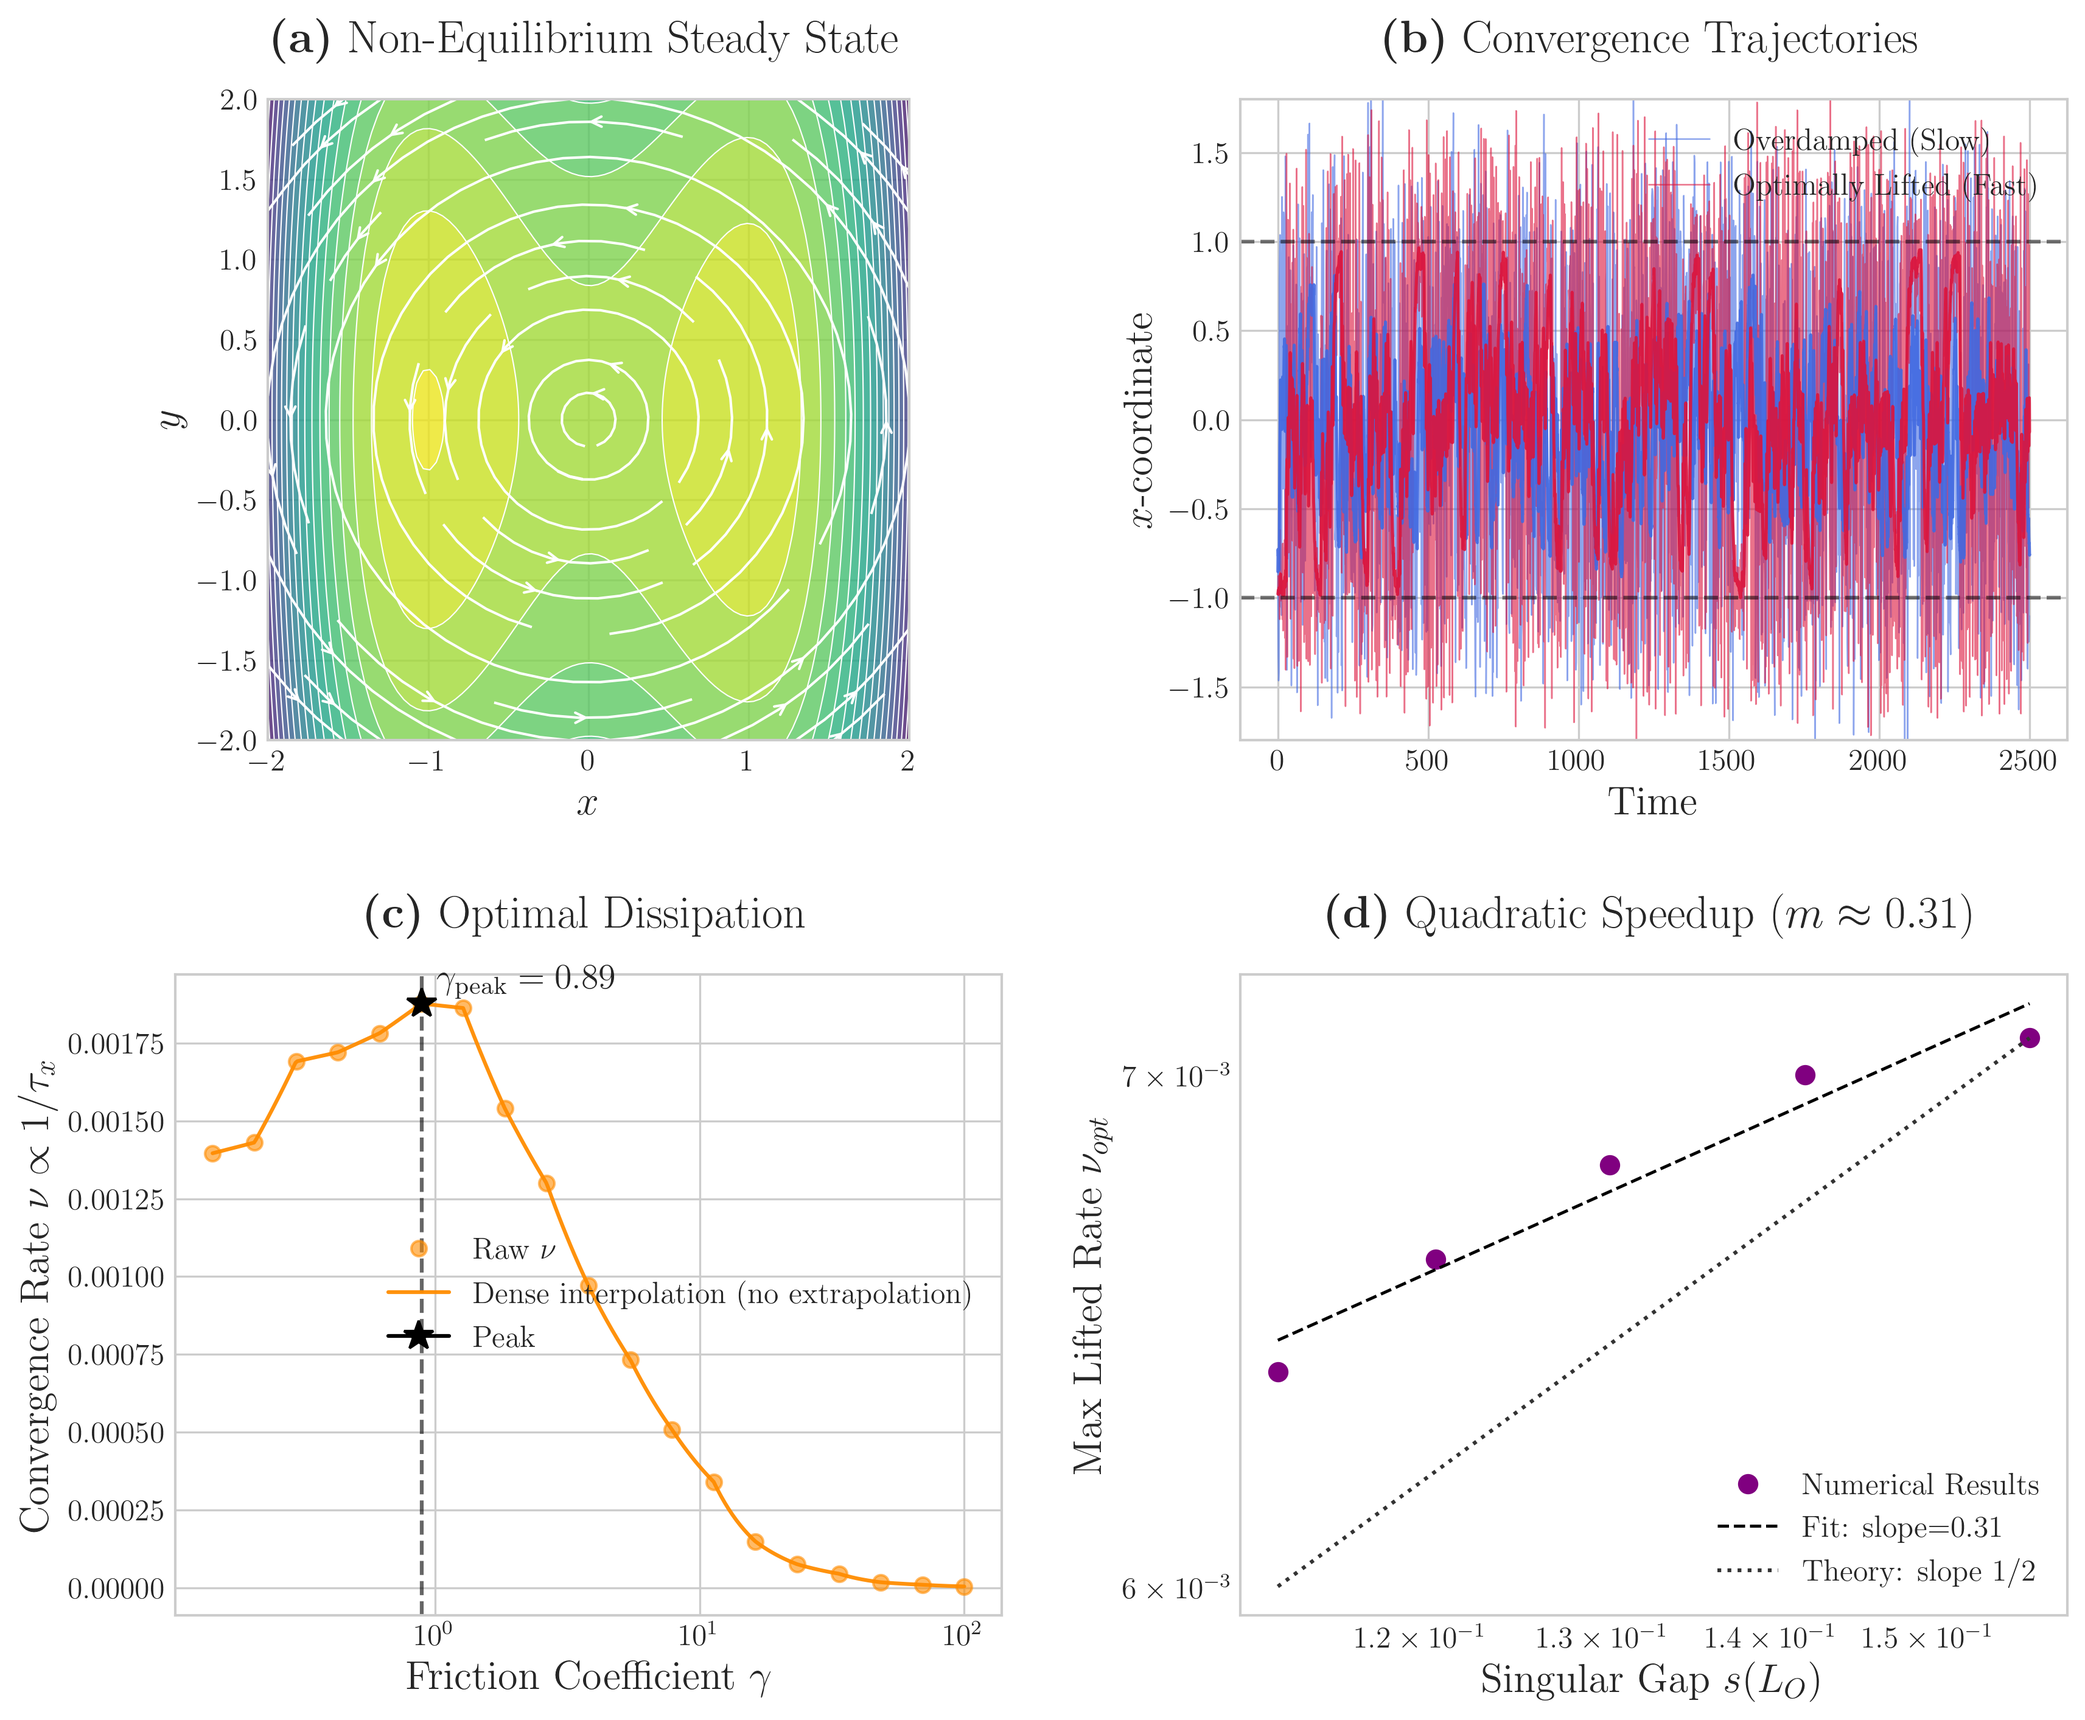
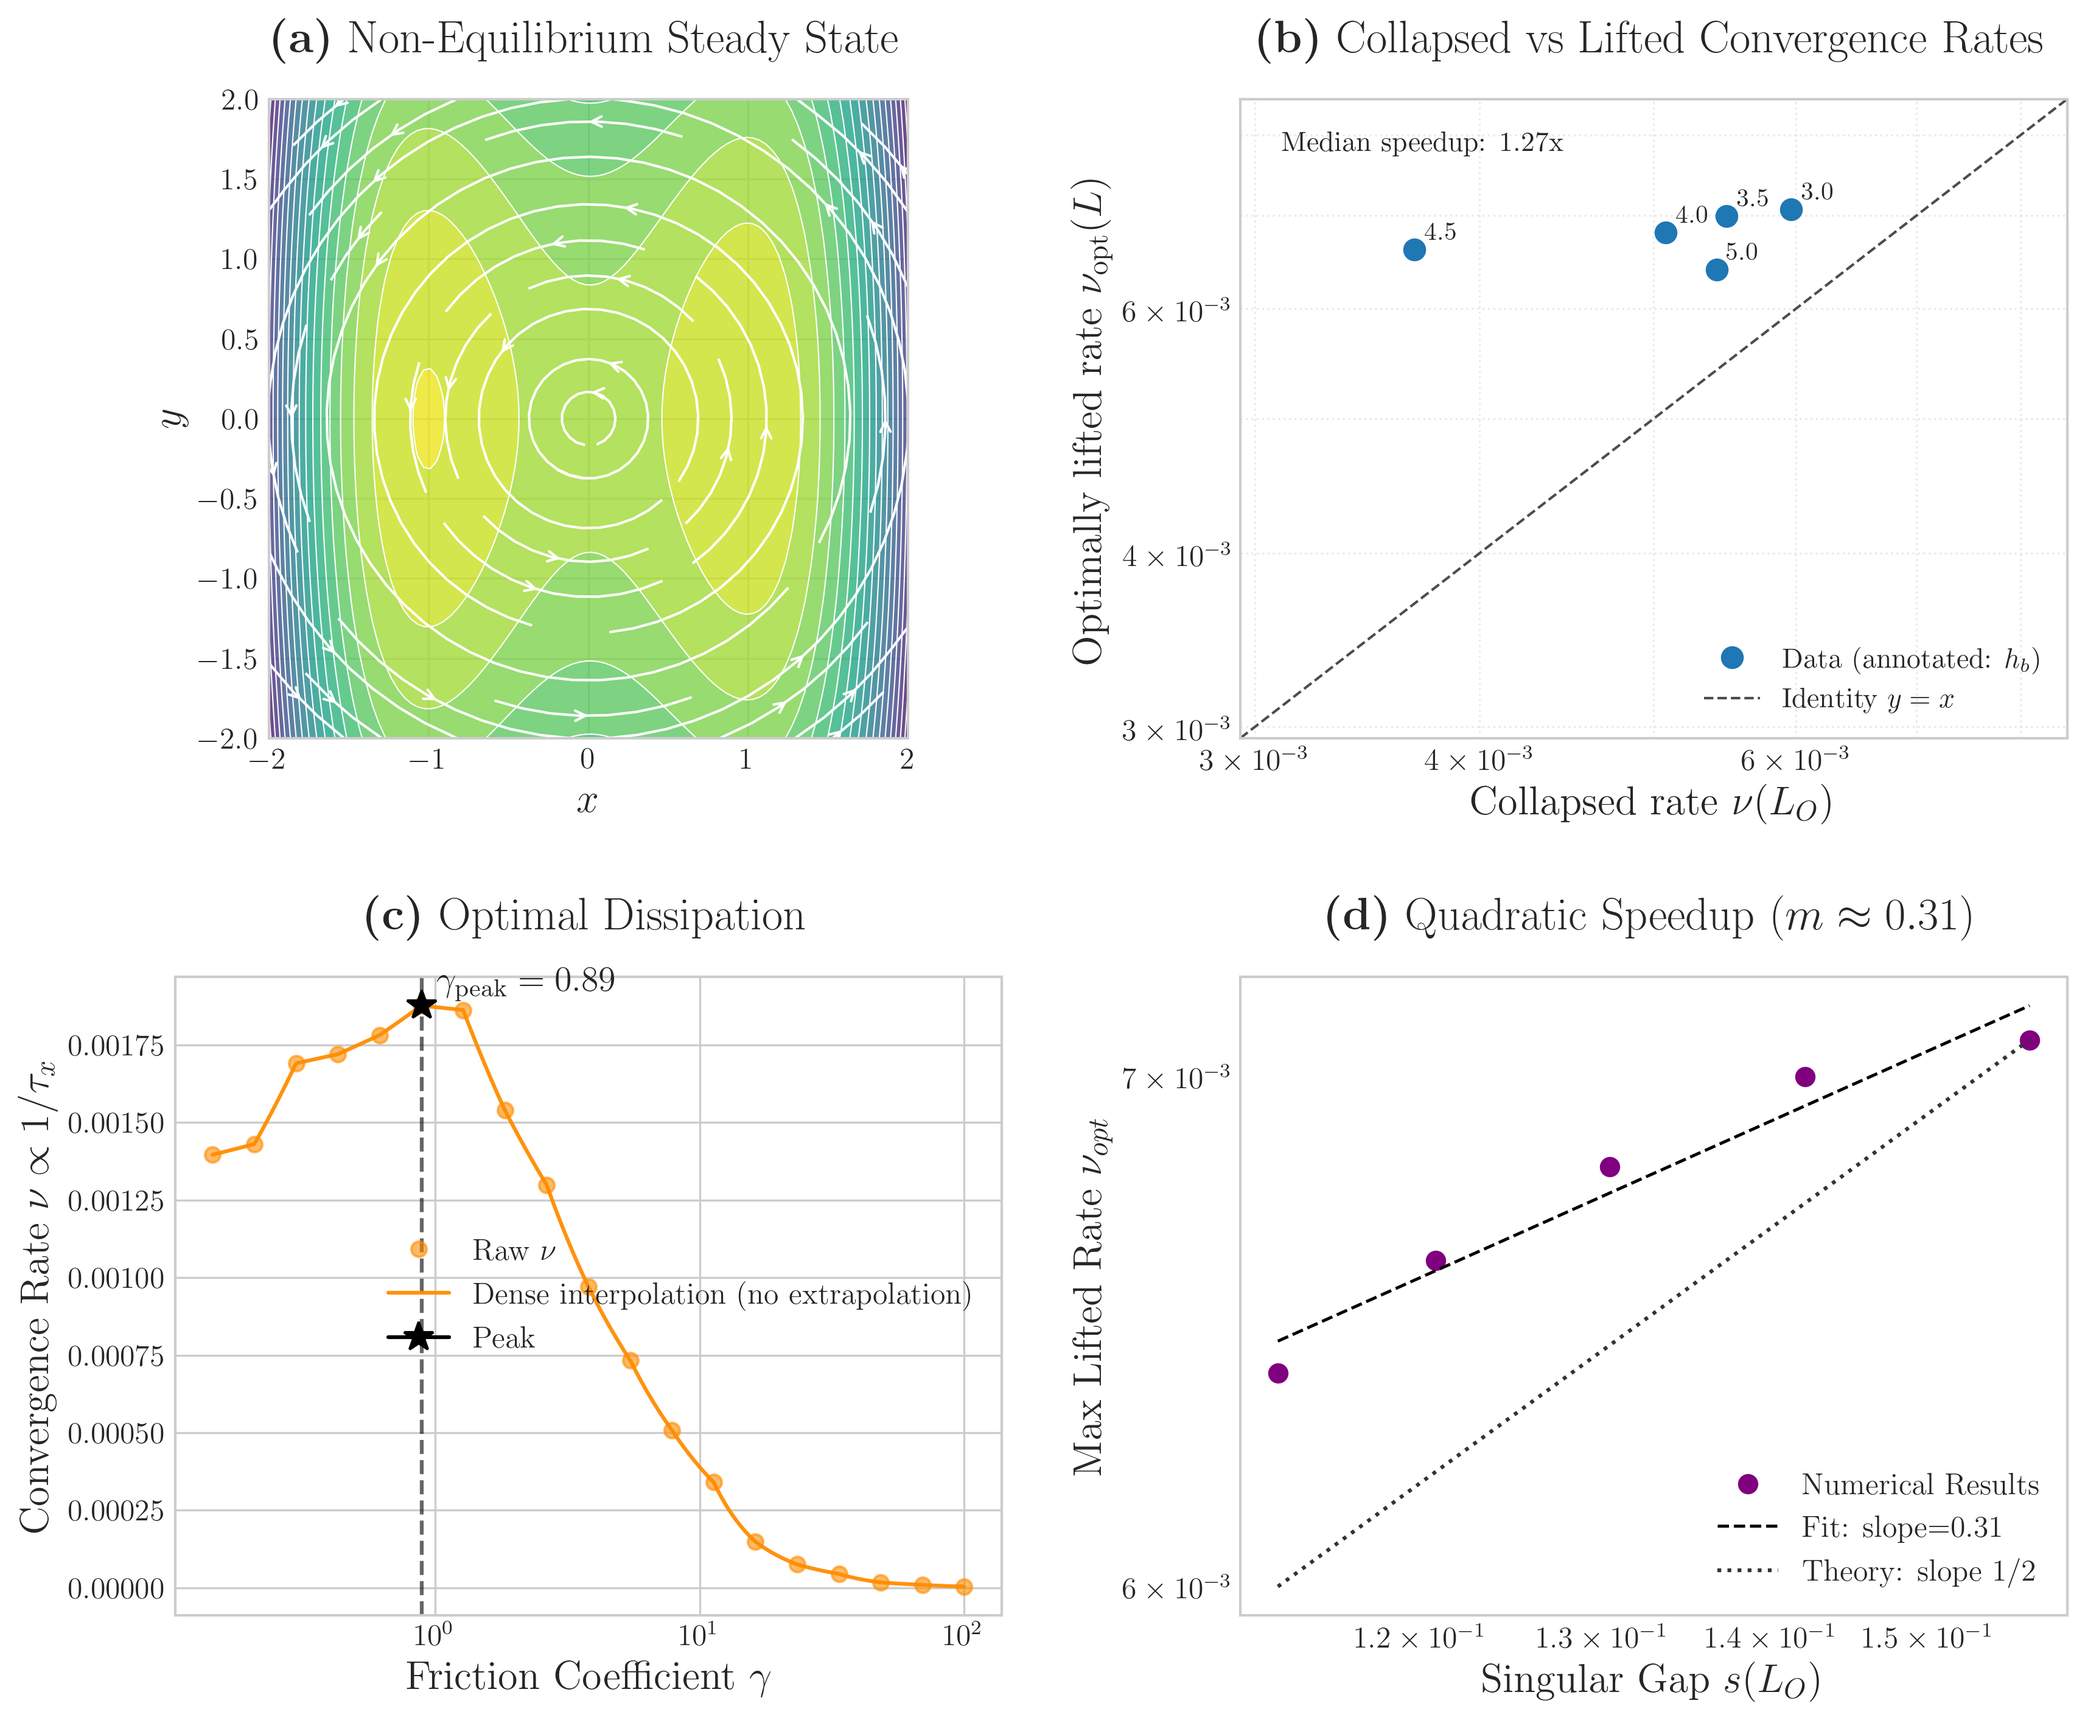
update figure b

diff --git a/diffusion/diffusion_simulation.py b/diffusion/diffusion_simulation.py
@@ -245,6 +245,24 @@ def run_simulation(n_steps, dt, gamma, h_b, initial_q):
         
     return traj_x
 
+
+@numba.njit
+def run_overdamped_sim(n_steps, dt, h_b, q0):
+    """Runs an overdamped Euler-Maruyama simulation and returns the x-coordinate trajectory.
+
+    This top-level function mirrors the small nested version used for plotting but is
+    placed at module scope so it can be JIT-compiled and reused for IAT estimation.
+    """
+    q = q0.copy()
+    traj_x = np.empty(n_steps)
+    for i in range(n_steps):
+        gradU_x, gradU_y = grad_potential(q[0], q[1], h_b)
+        Fx, Fy = non_conservative_force(q[0], q[1])
+        q[0] += dt * (gradU_x + Fx) + np.sqrt(2.0 / BETA * dt) * np.random.normal()
+        q[1] += dt * (gradU_y + Fy) + np.sqrt(2.0 / BETA * dt) * np.random.normal()
+        traj_x[i] = q[0]
+    return traj_x
+
 # --- 4. Analysis: Integrated Autocorrelation Time ---
 
 def integrated_autocorrelation_time(x, c=5):
@@ -454,55 +472,90 @@ def create_publication_figure(results):
     ax_a.set_ylabel(r'$y$')
     ax_a.set_aspect('equal')
 
-    # --- Panel (b): Trajectories ---
+    # --- Panel (b): Direct comparison of convergence rates (Collapsed vs Lifted) ---
+    # We compute (or use cached) nu_collapsed = 1 / IAT_overdamped and compare to
+    # the optimal lifted rate nu_opt (already stored as 'nu_max' per result). Both are
+    # computed using the same IAT estimator for consistency.
     ax_b = fig.add_subplot(gs[0, 1])
-    # Simulation for plotting trajectories
-    n_steps_traj = 50000
-    dt_traj = 0.05
-    initial_q_traj = np.array([-1.0, 0.0])
-    
-    # Overdamped (Euler-Maruyama)
-    @numba.njit
-    def run_overdamped(n_steps, dt, h_b, q0):
-        q = q0.copy()
-        traj_x = np.empty(n_steps)
-        for i in range(n_steps):
-            gradU_x, gradU_y = grad_potential(q[0], q[1], h_b)
-            Fx, Fy = non_conservative_force(q[0], q[1])
-            q[0] += dt * (gradU_x + Fx) + np.sqrt(2.0 / BETA * dt) * np.random.normal()
-            q[1] += dt * (gradU_y + Fy) + np.sqrt(2.0 / BETA * dt) * np.random.normal()
-            traj_x[i] = q[0]
-        return traj_x
-        
-    traj_overdamped = run_overdamped(n_steps_traj, dt_traj, h_b_plot, initial_q_traj)
-    
-    # Optimally lifted
-    gamma_opt_plot = results[-1]['gamma_opt']
-    traj_lifted = run_simulation(n_steps_traj, dt_traj, gamma_opt_plot, h_b_plot, initial_q_traj)
 
-    time_axis = np.arange(n_steps_traj) * dt_traj
-    # Subsample raw traces for clarity and overlay a smoothed curve (EMA)
-    subsample = max(1, n_steps_traj // 2000)
-    ax_b.plot(time_axis[::subsample], traj_overdamped[::subsample], label='Overdamped (Slow)', color='royalblue', lw=0.6, alpha=0.6)
-    ax_b.plot(time_axis[::subsample], traj_lifted[::subsample], label='Optimally Lifted (Fast)', color='crimson', lw=0.6, alpha=0.6)
+    quick_flag = os.environ.get('ZENO_QUICK', '0') == '1'
+    # Simulation defaults mirror the main experiment; quick mode uses smaller work.
+    SIM_DT = 0.01
+    N_STEPS_IAT = 20000 if quick_flag else 2_000_000
+    N_BURN_IN = 2000 if quick_flag else 100_000
+    REPEATS = 6 if quick_flag else 3
+    TOTAL_SIM_TIME = N_STEPS_IAT * SIM_DT
 
-    # Exponential moving average smoothing for visualization
-    def ema(x, alpha=0.01):
-        s = np.empty_like(x)
-        s[0] = x[0]
-        for i in range(1, len(x)):
-            s[i] = alpha * x[i] + (1 - alpha) * s[i-1]
-        return s
+    # Compute nu_collapsed for each barrier if missing; cache into results to avoid recompute.
+    for r in results:
+        if ('nu_collapsed' in r) and (r['nu_collapsed'] is not None) and (not np.isnan(r['nu_collapsed'])):
+            continue
 
-    ax_b.plot(time_axis, ema(traj_overdamped), color='royalblue', lw=1.2, alpha=0.9)
-    ax_b.plot(time_axis, ema(traj_lifted), color='crimson', lw=1.2, alpha=0.9)
-    ax_b.set_title(r'\textbf{(b)} Convergence Trajectories', y=1.05)
-    ax_b.set_xlabel(r'Time')
-    ax_b.set_ylabel(r'$x$-coordinate')
-    ax_b.legend(loc='upper right')
-    ax_b.set_ylim(-1.8, 1.8)
-    ax_b.axhline(-1, color='k', linestyle='--', alpha=0.5)
-    ax_b.axhline(1, color='k', linestyle='--', alpha=0.5)
+        h_b_val = r['h_b']
+        print(f"Computing overdamped IAT for collapsed system (h_b={h_b_val}) using {N_STEPS_IAT} steps x dt={SIM_DT}...")
+        n_steps = max(int(np.ceil(TOTAL_SIM_TIME / SIM_DT)), 10)
+        # N_BURN_IN is a number of steps (already in the script's convention).
+        # Use burn_steps = min(N_BURN_IN, n_steps-1) to avoid converting by dt.
+        burn_steps = min(int(N_BURN_IN), n_steps - 1)
+
+        iats_repeats = []
+        for rep in range(REPEATS):
+            traj = run_overdamped_sim(n_steps, SIM_DT, h_b_val, np.array([-1.0, 0.0]))
+            iat = integrated_autocorrelation_time(traj[burn_steps:])
+            iats_repeats.append(iat)
+
+        iats_repeats = np.array(iats_repeats)
+        med = float(np.nanmedian(iats_repeats)) if iats_repeats.size > 0 else np.nan
+        std = float(np.nanstd(iats_repeats)) if iats_repeats.size > 0 else np.nan
+        nu_collapsed = 1.0 / med if (med is not None and not np.isnan(med) and med > 0) else np.nan
+        r['nu_collapsed'] = nu_collapsed
+        r['nu_collapsed_iats'] = iats_repeats.tolist()
+        r['nu_collapsed_iat_median'] = med
+        r['nu_collapsed_iat_std'] = std
+        # Save back to disk to cache heavy computation
+        try:
+            np.save(r'diffusion/experiment_results.npy', results)
+            print(f"  -> Cached nu_collapsed for h_b={h_b_val}")
+        except Exception:
+            print("  -> Warning: failed to cache updated results file for nu_collapsed.")
+
+    # Gather arrays for plotting
+    hb_vals = np.array([r['h_b'] for r in results])
+    nu_collapsed_vals = np.array([r.get('nu_collapsed', np.nan) for r in results])
+    nu_opt_vals = np.array([r.get('nu_max', np.nan) for r in results])
+
+    # Filter valid positive values
+    valid = np.isfinite(nu_collapsed_vals) & np.isfinite(nu_opt_vals) & (nu_collapsed_vals > 0) & (nu_opt_vals > 0)
+    if np.any(valid):
+        x = nu_collapsed_vals[valid]
+        y = nu_opt_vals[valid]
+        hbs = hb_vals[valid]
+
+        ax_b.set_xscale('log')
+        ax_b.set_yscale('log')
+        ax_b.plot(x, y, 'o', color='tab:blue', ms=8, label='Data (annotated: $h_b$)')
+        # identity line
+        lims = [min(x.min(), y.min()) * 0.8, max(x.max(), y.max()) * 1.2]
+        ax_b.plot(lims, lims, '--', color='0.3', lw=1, label=r'Identity $y=x$')
+        # annotate points with barrier heights
+        for xi, yi, hb in zip(x, y, hbs):
+            ax_b.annotate(f"{hb:.1f}", xy=(xi, yi), xytext=(4, 4), textcoords='offset points', fontsize=10)
+
+        ax_b.set_xlim(lims)
+        ax_b.set_ylim(lims)
+        ax_b.set_xlabel(r'Collapsed rate $\nu(L_O)$')
+        ax_b.set_ylabel(r'Optimally lifted rate $\nu_{\mathrm{opt}}(L)$')
+        ax_b.set_title(r'\textbf{(b)} Collapsed vs Lifted Convergence Rates', y=1.05)
+        ax_b.grid(True, which='both', ls=':', alpha=0.4)
+        # show ratio as text
+        ratios = y / x
+        median_ratio = np.nanmedian(ratios)
+        ax_b.text(0.05, 0.95, f'Median speedup: {median_ratio:.2f}x', transform=ax_b.transAxes, ha='left', va='top', fontsize=11)
+        # Legend explaining the annotation on each plotted point
+        ax_b.legend(loc='lower right', fontsize=11)
+    else:
+        ax_b.text(0.5, 0.5, 'Insufficient data to compare rates', ha='center', va='center')
+        ax_b.set_title(r'\textbf{(b)} Collapsed vs Lifted Convergence Rates', y=1.05)
 
     # --- Panel (c): Optimal Dissipation ---
     ax_c = fig.add_subplot(gs[1, 0])
